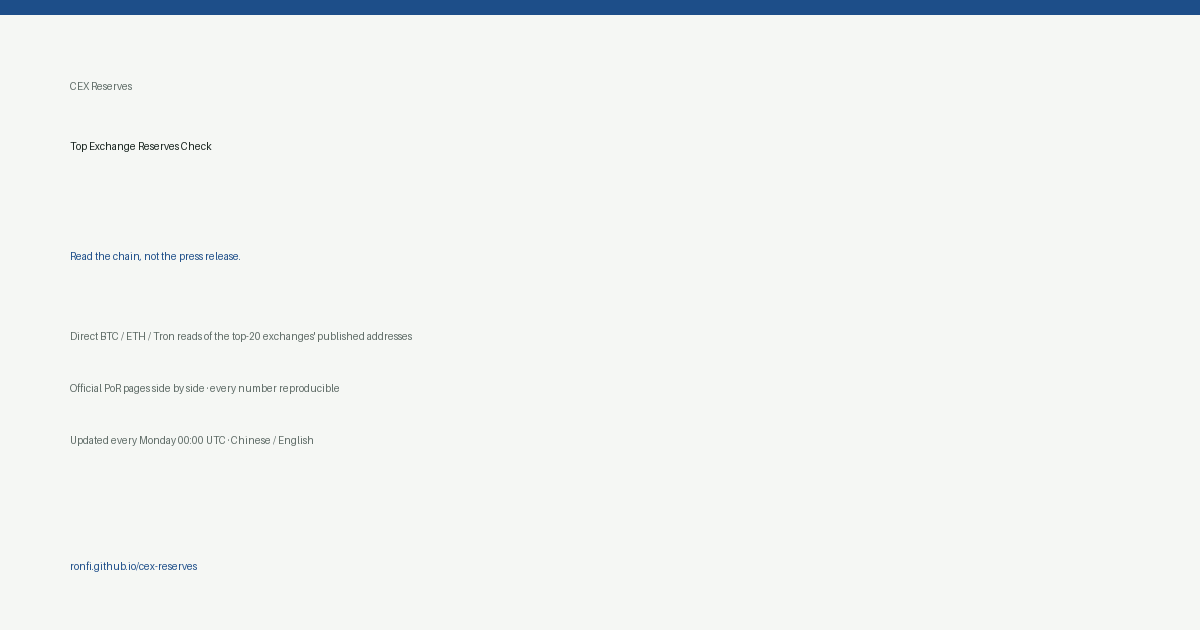
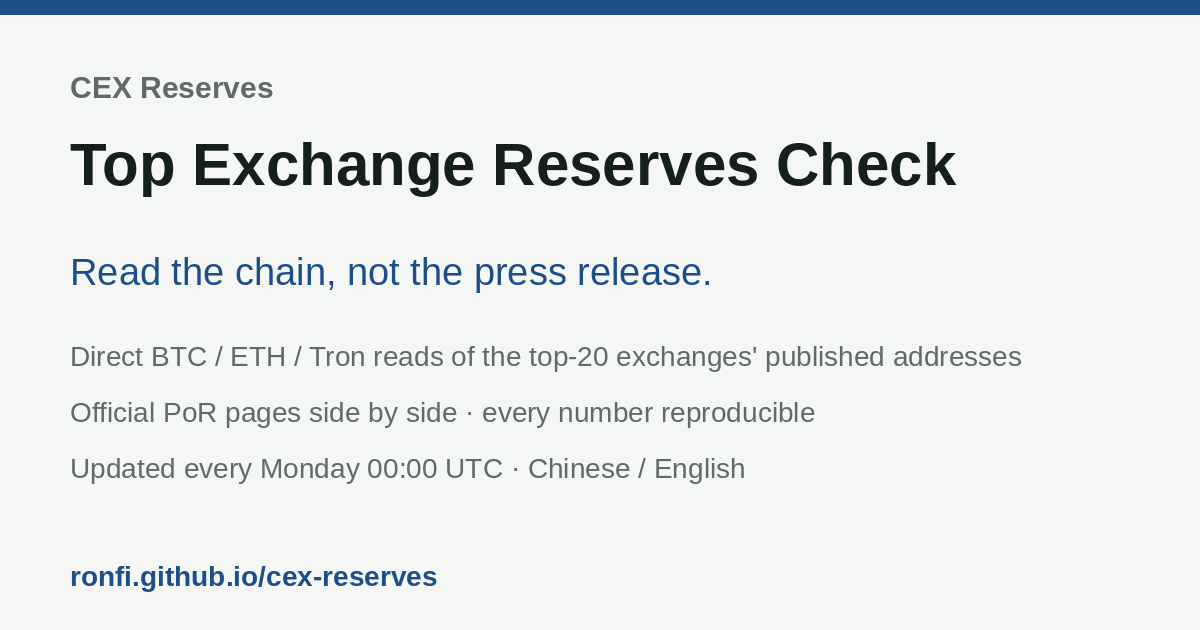
OG 图字体修正;图例去掉"不分交易所"

diff --git a/docs/archive/2026-09-04.en.html b/docs/archive/2026-09-04.en.html
@@ -64,7 +64,7 @@ footer{grid-column:1/-1;margin-top:34px;padding-top:14px;border-top:1px solid va
 <header class="mast"><div class="mast-in"><h1>Top Exchange Reserves Check · 2026-09</h1><nav class="lang" aria-label="language"><a href="https://ronfi.github.io/cex-reserves/" hreflang="zh-CN" lang="zh-CN">中文</a><span class="on" lang="en">English</span></nav><div class="meta"><span>Data as of 2026-09-04 22:30 UTC</span><span>Updated every Monday 00:00 UTC</span><span>Reproduce <code>python3 tools/cex_reserves_verify.py --chain all</code></span><span><a href="https://github.com/ronfi/cex-reserves">Source and data</a></span></div></div></header>
 <div class="wrap">
 <nav class="toc" aria-label="Contents"><div class="lbl">Contents</div><ol><li><a href="#0-summary">0. Summary</a></li><li><a href="#1-method-three-data-layers-trust-only-the-bottom-one">1. Method: three data layers, trust only the bottom one</a></li><li><a href="#2-panorama-top-20-by-on-chain-reserves-defillama-public-address-basis-read-2026-09-04-22-30-utc">2. Panorama: top 20 by on-chain reserves (DefiLlama public-address basis, read 2026-09-04 22:30 UTC)</a></li><li><a href="#3-direct-on-chain-reconciliation-of-published-addresses-primary-evidence">3. Direct on-chain reconciliation of published addresses (primary evidence)</a></li><li><a href="#4-affiliated-tokens-as-a-share-of-reserves-ftx-s-three-structural-preconditions-exchange-by-exchange">4. Affiliated tokens as a share of reserves: FTX's three structural preconditions, exchange by exchange</a></li><li><a href="#5-official-por-side-by-side-each-exchange-s-page-2026-08-01-snapshot-red-third-party-custody-10-of-reserves-or-own-wallets-liabilities-100-the-10-trigger-rules">5. Official PoR side by side (each exchange's page, 2026-08-01 snapshot; red = third-party custody &gt;10% of reserves or own wallets ÷ liabilities &lt;100%, the §10 trigger rules)</a></li><li><a href="#6-discrepancies-with-self-reported-figures-by-exchange">6. Discrepancies with self-reported figures (by exchange)</a></li><li><a href="#7-poloniex-and-btc-trc20-btctron-the-poloniex-linked-part-of-htx-reserves">7. Poloniex and BTC-TRC20 (BTCTRON): the Poloniex-linked part of HTX reserves</a></li><li><a href="#8-realisability-of-affiliated-tokens-reserve-holdings-24h-volume-measured-2026-09-05-red-affiliated-share-30-or-staked-share-50-the-2-10-rules">8. Realisability of affiliated tokens: reserve holdings ÷ 24h volume (measured 2026-09-05; red = affiliated share &gt;30% or staked share &gt;50%, the §2/§10 rules)</a></li><li><a href="#9-reproduce">9. Reproduce</a></li><li><a href="#10-monitoring-indicators-one-set-read-per-exchange">10. Monitoring indicators (one set, read per exchange)</a></li></ol>
-<div class="legend"><div><span class="ok">green</span>reconciles with the aggregator (rule in each table heading)</div><div><mark class="r">red</mark>above the threshold stated in the table heading, regardless of exchange</div><div><mark class="n">yellow *</mark>caliber difference, note under the table</div></div></nav>
+<div class="legend"><div><span class="ok">green</span>reconciles with the aggregator (rule in each table heading)</div><div><mark class="r">red</mark>above the threshold stated in the table heading</div><div><mark class="n">yellow *</mark>caliber difference, note under the table</div></div></nav>
 <main>
 <blockquote>
 <p>Each table heading carries its own read time. Every number can be re-read with <code>tools/cex_reserves_verify.py</code> in this repository; the output snapshot is <code>data/cex_reserves_2026-09-04.json</code>.

diff --git a/docs/en/index.html b/docs/en/index.html
@@ -64,7 +64,7 @@ footer{grid-column:1/-1;margin-top:34px;padding-top:14px;border-top:1px solid va
 <header class="mast"><div class="mast-in"><h1>Top Exchange Reserves Check · 2026-09</h1><nav class="lang" aria-label="language"><a href="../" hreflang="zh-CN" lang="zh-CN">中文</a><span class="on" lang="en">English</span></nav><div class="meta"><span>Data as of 2026-09-04 22:30 UTC</span><span>Updated every Monday 00:00 UTC</span><span>Reproduce <code>python3 tools/cex_reserves_verify.py --chain all</code></span><span><a href="https://github.com/ronfi/cex-reserves">Source and data</a></span></div></div></header>
 <div class="wrap">
 <nav class="toc" aria-label="Contents"><div class="lbl">Contents</div><ol><li><a href="#0-summary">0. Summary</a></li><li><a href="#1-method-three-data-layers-trust-only-the-bottom-one">1. Method: three data layers, trust only the bottom one</a></li><li><a href="#2-panorama-top-20-by-on-chain-reserves-defillama-public-address-basis-read-2026-09-04-22-30-utc">2. Panorama: top 20 by on-chain reserves (DefiLlama public-address basis, read 2026-09-04 22:30 UTC)</a></li><li><a href="#3-direct-on-chain-reconciliation-of-published-addresses-primary-evidence">3. Direct on-chain reconciliation of published addresses (primary evidence)</a></li><li><a href="#4-affiliated-tokens-as-a-share-of-reserves-ftx-s-three-structural-preconditions-exchange-by-exchange">4. Affiliated tokens as a share of reserves: FTX's three structural preconditions, exchange by exchange</a></li><li><a href="#5-official-por-side-by-side-each-exchange-s-page-2026-08-01-snapshot-red-third-party-custody-10-of-reserves-or-own-wallets-liabilities-100-the-10-trigger-rules">5. Official PoR side by side (each exchange's page, 2026-08-01 snapshot; red = third-party custody &gt;10% of reserves or own wallets ÷ liabilities &lt;100%, the §10 trigger rules)</a></li><li><a href="#6-discrepancies-with-self-reported-figures-by-exchange">6. Discrepancies with self-reported figures (by exchange)</a></li><li><a href="#7-poloniex-and-btc-trc20-btctron-the-poloniex-linked-part-of-htx-reserves">7. Poloniex and BTC-TRC20 (BTCTRON): the Poloniex-linked part of HTX reserves</a></li><li><a href="#8-realisability-of-affiliated-tokens-reserve-holdings-24h-volume-measured-2026-09-05-red-affiliated-share-30-or-staked-share-50-the-2-10-rules">8. Realisability of affiliated tokens: reserve holdings ÷ 24h volume (measured 2026-09-05; red = affiliated share &gt;30% or staked share &gt;50%, the §2/§10 rules)</a></li><li><a href="#9-reproduce">9. Reproduce</a></li><li><a href="#10-monitoring-indicators-one-set-read-per-exchange">10. Monitoring indicators (one set, read per exchange)</a></li></ol>
-<div class="legend"><div><span class="ok">green</span>reconciles with the aggregator (rule in each table heading)</div><div><mark class="r">red</mark>above the threshold stated in the table heading, regardless of exchange</div><div><mark class="n">yellow *</mark>caliber difference, note under the table</div></div></nav>
+<div class="legend"><div><span class="ok">green</span>reconciles with the aggregator (rule in each table heading)</div><div><mark class="r">red</mark>above the threshold stated in the table heading</div><div><mark class="n">yellow *</mark>caliber difference, note under the table</div></div></nav>
 <main>
 <blockquote>
 <p>Each table heading carries its own read time. Every number can be re-read with <code>tools/cex_reserves_verify.py</code> in this repository; the output snapshot is <code>data/cex_reserves_2026-09-04.json</code>.

diff --git a/docs/archive/2026-09-04.html b/docs/archive/2026-09-04.html
@@ -64,7 +64,7 @@ footer{grid-column:1/-1;margin-top:34px;padding-top:14px;border-top:1px solid va
 <header class="mast"><div class="mast-in"><h1>头部交易所储备核查 · 2026-09</h1><nav class="lang" aria-label="language"><span class="on" lang="zh-CN">中文</span><a href="https://ronfi.github.io/cex-reserves/en/" hreflang="en" lang="en">English</a></nav><div class="meta"><span>数据截至 2026-09-04 22:30 UTC</span><span>每周一 00:00 UTC(北京时间 08:00)更新</span><span>复现 <code>python3 tools/cex_reserves_verify.py --chain all</code></span><span><a href="https://github.com/ronfi/cex-reserves">源码与数据</a></span></div></div></header>
 <div class="wrap">
 <nav class="toc" aria-label="目录"><div class="lbl">目录</div><ol><li><a href="#0-摘要">0. 摘要</a></li><li><a href="#1-方法-三层数据-只信最底层">1. 方法:三层数据,只信最底层</a></li><li><a href="#2-全景-链上储备前-20-名-defillama-公开地址口径-读取于-2026-09-04-22-30-utc">2. 全景:链上储备前 20 名(DefiLlama 公开地址口径,读取于 2026-09-04 22:30 UTC)</a></li><li><a href="#3-公布地址链上直读对账-本报告主判据">3. 公布地址链上直读对账(本报告主判据)</a></li><li><a href="#4-关联币占储备的比重-ftx-的三项结构性前提与各所对照">4. 关联币占储备的比重:FTX 的三项结构性前提与各所对照</a></li><li><a href="#5-官方-por-横向-各所页面-2026-08-01-快照-第三方托管占储备-10-仅自有钱包-负债-100-标红-与-10-触发规则一致">5. 官方 PoR 横向(各所页面,2026-08-01 快照;第三方托管占储备 &gt;10%、仅自有钱包 ÷ 负债 &lt;100% 标红,与 §10 触发规则一致)</a></li><li><a href="#6-与自报口径的差异-按所">6. 与自报口径的差异(按所)</a></li><li><a href="#7-poloniex-与-btc-trc20-btctron-htx-储备中与-poloniex-关联的部分">7. Poloniex 与 BTC-TRC20(BTCTRON):HTX 储备中与 Poloniex 关联的部分</a></li><li><a href="#8-关联币可变现性-储备中的持仓-24h-成交-2026-09-05-实测-关联币占储备-30-质押占比-50-标红-与-2-10-规则一致">8. 关联币可变现性:储备中的持仓 ÷ 24h 成交(2026-09-05 实测;关联币占储备 &gt;30%、质押占比 &gt;50% 标红,与 §2/§10 规则一致)</a></li><li><a href="#9-复现">9. 复现</a></li><li><a href="#10-监控指标-同一组指标-逐所读">10. 监控指标(同一组指标,逐所读)</a></li></ol>
-<div class="legend"><div><span class="ok">绿</span>与聚合器对上(规则见各表标题)</div><div><mark class="r">红</mark>超过各表标题声明的阈值,不分交易所</div><div><mark class="n">黄 *</mark>口径差,表下有注</div></div></nav>
+<div class="legend"><div><span class="ok">绿</span>与聚合器对上(规则见各表标题)</div><div><mark class="r">红</mark>超过各表标题声明的阈值</div><div><mark class="n">黄 *</mark>口径差,表下有注</div></div></nav>
 <main>
 <blockquote>
 <p>各表标题另有各自的读取时间。全部数字可用本仓库 <code>tools/cex_reserves_verify.py</code> 重新读取;输出快照在 <code>data/cex_reserves_2026-09-04.json</code>。

diff --git a/docs/index.html b/docs/index.html
@@ -64,7 +64,7 @@ footer{grid-column:1/-1;margin-top:34px;padding-top:14px;border-top:1px solid va
 <header class="mast"><div class="mast-in"><h1>头部交易所储备核查 · 2026-09</h1><nav class="lang" aria-label="language"><span class="on" lang="zh-CN">中文</span><a href="en/" hreflang="en" lang="en">English</a></nav><div class="meta"><span>数据截至 2026-09-04 22:30 UTC</span><span>每周一 00:00 UTC(北京时间 08:00)更新</span><span>复现 <code>python3 tools/cex_reserves_verify.py --chain all</code></span><span><a href="https://github.com/ronfi/cex-reserves">源码与数据</a></span></div></div></header>
 <div class="wrap">
 <nav class="toc" aria-label="目录"><div class="lbl">目录</div><ol><li><a href="#0-摘要">0. 摘要</a></li><li><a href="#1-方法-三层数据-只信最底层">1. 方法:三层数据,只信最底层</a></li><li><a href="#2-全景-链上储备前-20-名-defillama-公开地址口径-读取于-2026-09-04-22-30-utc">2. 全景:链上储备前 20 名(DefiLlama 公开地址口径,读取于 2026-09-04 22:30 UTC)</a></li><li><a href="#3-公布地址链上直读对账-本报告主判据">3. 公布地址链上直读对账(本报告主判据)</a></li><li><a href="#4-关联币占储备的比重-ftx-的三项结构性前提与各所对照">4. 关联币占储备的比重:FTX 的三项结构性前提与各所对照</a></li><li><a href="#5-官方-por-横向-各所页面-2026-08-01-快照-第三方托管占储备-10-仅自有钱包-负债-100-标红-与-10-触发规则一致">5. 官方 PoR 横向(各所页面,2026-08-01 快照;第三方托管占储备 &gt;10%、仅自有钱包 ÷ 负债 &lt;100% 标红,与 §10 触发规则一致)</a></li><li><a href="#6-与自报口径的差异-按所">6. 与自报口径的差异(按所)</a></li><li><a href="#7-poloniex-与-btc-trc20-btctron-htx-储备中与-poloniex-关联的部分">7. Poloniex 与 BTC-TRC20(BTCTRON):HTX 储备中与 Poloniex 关联的部分</a></li><li><a href="#8-关联币可变现性-储备中的持仓-24h-成交-2026-09-05-实测-关联币占储备-30-质押占比-50-标红-与-2-10-规则一致">8. 关联币可变现性:储备中的持仓 ÷ 24h 成交(2026-09-05 实测;关联币占储备 &gt;30%、质押占比 &gt;50% 标红,与 §2/§10 规则一致)</a></li><li><a href="#9-复现">9. 复现</a></li><li><a href="#10-监控指标-同一组指标-逐所读">10. 监控指标(同一组指标,逐所读)</a></li></ol>
-<div class="legend"><div><span class="ok">绿</span>与聚合器对上(规则见各表标题)</div><div><mark class="r">红</mark>超过各表标题声明的阈值,不分交易所</div><div><mark class="n">黄 *</mark>口径差,表下有注</div></div></nav>
+<div class="legend"><div><span class="ok">绿</span>与聚合器对上(规则见各表标题)</div><div><mark class="r">红</mark>超过各表标题声明的阈值</div><div><mark class="n">黄 *</mark>口径差,表下有注</div></div></nav>
 <main>
 <blockquote>
 <p>各表标题另有各自的读取时间。全部数字可用本仓库 <code>tools/cex_reserves_verify.py</code> 重新读取;输出快照在 <code>data/cex_reserves_2026-09-04.json</code>。

diff --git a/tools/build_site.py b/tools/build_site.py
@@ -15,7 +15,7 @@ LANG = {
         og='读链,不读公告。前 20 名交易所的链上储备核查,每个数字可复现。',
         update='每周一 00:00 UTC(北京时间 08:00)更新', asof='数据截至', repro='复现', source='源码与数据',
         switch='<span class="on" lang="zh-CN">中文</span><a href="en/" hreflang="en" lang="en">English</a>', toc='目录',
-        legend=[('<span class="ok">绿</span>', '与聚合器对上(规则见各表标题)'), ('<mark class="r">红</mark>', '超过各表标题声明的阈值,不分交易所'), ('<mark class="n">黄 *</mark>', '口径差,表下有注')],
+        legend=[('<span class="ok">绿</span>', '与聚合器对上(规则见各表标题)'), ('<mark class="r">红</mark>', '超过各表标题声明的阈值'), ('<mark class="n">黄 *</mark>', '口径差,表下有注')],
         kv_head='项', support='打赏 / Support',
         support_note='这个项目会长期免费、公开地维护下去。如果这些核对帮您省下了自己动手核一遍的时间,那就是它存在的意义。您的支持是本项目持续维护的动力,无论金额大小,都衷心感谢。请只使用 <a href="https://github.com/ronfi/cex-reserves/blob/main/DONATE.md">DONATE.md(main 分支)</a>中的地址;在其他任何地方看到的地址,无论看起来多像,都不要使用。',
         copy='点击复制', qr='展开二维码', built='页面生成', license='内容 CC BY-NC-ND 4.0 · 脚本 MIT', archive='历次版本存档', archive_href='archive/', pv='本页访问 <span id="busuanzi_value_page_pv"></span> 次(计数由第三方脚本 busuanzi 提供)', archnote='这是 {d} 的存档版本,数据与文字停留在当时;最新版见',
@@ -28,7 +28,7 @@ LANG = {
         og='Read the chain, not the announcement. On-chain reserve check of the top 20 exchanges, every number reproducible.',
         update='Updated every Monday 00:00 UTC', asof='Data as of', repro='Reproduce', source='Source and data',
         switch='<a href="../" hreflang="zh-CN" lang="zh-CN">中文</a><span class="on" lang="en">English</span>', toc='Contents',
-        legend=[('<span class="ok">green</span>', 'reconciles with the aggregator (rule in each table heading)'), ('<mark class="r">red</mark>', 'above the threshold stated in the table heading, regardless of exchange'), ('<mark class="n">yellow *</mark>', 'caliber difference, note under the table')],
+        legend=[('<span class="ok">green</span>', 'reconciles with the aggregator (rule in each table heading)'), ('<mark class="r">red</mark>', 'above the threshold stated in the table heading'), ('<mark class="n">yellow *</mark>', 'caliber difference, note under the table')],
         kv_head='Item', support='Support',
         support_note='This project will stay free and public for the long run. If these checks ever saved you the work of verifying it yourself, that is what it is for. Your support keeps it maintained; any amount is sincerely appreciated. Use only the addresses in <a href="https://github.com/ronfi/cex-reserves/blob/main/DONATE.md">DONATE.md on the main branch</a>; do not use any address you see anywhere else, however similar it looks.',
         copy='click to copy', qr='show QR code', built='Page built', license='Content CC BY-NC-ND 4.0 · scripts MIT', archive='Version archive', archive_href='../archive/', pv='<span id="busuanzi_value_page_pv"></span> page views (counted by the third-party busuanzi script)', archnote='This is the archived {d} edition; data and text are as of then. Latest:',
